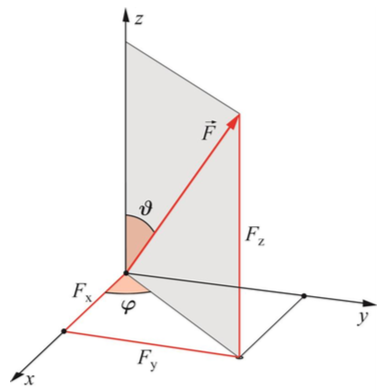
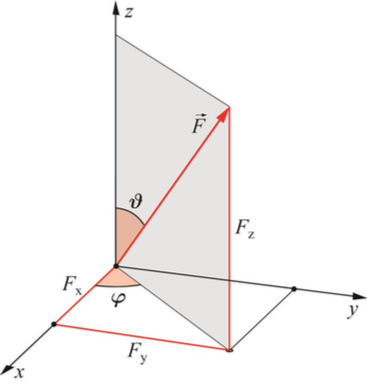
Add summary info until 'Bewegungen in 3 Dim.'

diff --git a/cheatsheet.tex b/cheatsheet.tex
@@ -41,6 +41,14 @@ zusammen: $G = {G}[G]$
 Dimensionen: Masse, Länge, Zeit, Temperatur, Stromstärke, Lichtstärke,
 Stoffmenge.
 
+\subsection{Mathematik}
+\subsubsection{Trigonometrie}
+	\begin{align*}
+		\sin(\alpha) &= \frac{\text{Gegenkathete}}{\text{Hypotenuse}} \\
+		\cos(\alpha) &= \frac{\text{Ankathete}}{\text{Hypotenuse}} \\
+		\tan(\alpha) &=  \frac{\text{Gegenkathete}}{\text{Ankathete}} = \frac{\sin(\alpha)}{\cos(\alpha)}
+	\end{align*}
+
 \section{Kinematik}
 	\begin{tabu} {l X}
 		\hline
@@ -65,20 +73,14 @@ Stoffmenge.
 		&	$\bar{a} = \frac{\Delta v}{\Delta t}$ 
 		\\ \hline
 	\end{tabu}
-	
-	\begin{figure}[h!]
-		\includegraphics[width=0.7\linewidth]{img/kinematik1}
-		\caption{}
-		\label{fig:kinematik1}
-	\end{figure}
 
-\subsection{v-t Diagramme}
-	
-	\begin{figure}[h!]
-		\includegraphics[width=0.4\linewidth]{img/v-t_diagram}
-		\caption{}
-		\label{fig:v-tdiagram}
-	\end{figure}
+	\begin{multicols}{2}
+		\subsection{x-t Diagramme}
+		\includegraphics[width=0.9\linewidth]{img/kinematik1}
+		
+		\subsection{v-t Diagramme}
+		\includegraphics[width=0.9\linewidth]{img/v-t_diagram}
+	\end{multicols}
 
 
 
@@ -115,28 +117,6 @@ Stoffmenge.
 		Impuls & $p = mv$ \\
 		Energie & $W = Fs = \frac{1}{2} mv^2$
 	\end{tabu}
-			
-	\begin{figure}[h]
-		\centering
-		\includegraphics[width=0.3\linewidth]{img/darstellungKraefte.png}
-		\caption{Darstellung von Kräften}
-		\label{fig:darstellungkraefte}
-	\end{figure}
-		\begin{tabu} {l X}
-			\multicolumn{2}{l}{2 Dimensional} \\
-			$F_x = $ & $Fcos(\alpha)$ \\
-			$F_y = $ & $Fsin(\alpha)$ \\
-			\multicolumn{2}{l}{3 Dimensional} \\
-			$F_x = $ & $Fcos(\varphi)sin(\vartheta)$ \\
-			$F_y = $ & $Fsin(\varphi)sin(\vartheta)$ \\
-			$F_z = $ & $Fcos(\vartheta)$
-		\end{tabu}
-			\begin{tabu} {l X}
-				\multicolumn{2}{l}{Berechnung trigonometrische Funktionen} \\
-				$sin(\alpha) = $ & $\frac{Gegenkathete}{Hypotenuse}$ \\
-				$cos(\alpha) = $ & $\frac{Ankathete}{Hypotenuse}$ \\
-				$tan(\alpha) = $ & $\frac{Gegenkathete}{Ankathete}$ = $\frac{sin(\alpha)}{cos(\alpha)}$
-			\end{tabu}
 
 \subsubsection{Potentielle Energie}
 	
@@ -157,6 +137,26 @@ Stoffmenge.
 		Kraft & $F = kx$ \\ %TODO: Was ist $x$?
 		Energie & $	W = \frac{1}{2} k x^2$
 	\end{tabu}
+
+
+\subsection{Mehrdimensionale Kräfte}
+\paragraph{2 Dimensionen} \hfill \\
+	\begin{tabu} {l X}
+		$F_x = $ & $F\cos(\alpha)$ \\
+		$F_y = $ & $F\sin(\alpha)$ \\
+	\end{tabu}
+\paragraph{3 Dimensionen} \hfill \\
+	\begin{multicols}{2}
+		\includegraphics[width=0.8\linewidth]{img/darstellungKraefte.png}
+		
+		\begin{tabu} {l X}
+			$\vec{r}(t) =$ & $ \left[ x(t),y(t),z(t)\right]$ \\
+			$\vec{v}(t) =$ & $\frac{\text{d}\vec{r}}{\text{d}t}$ \\
+			$F_x = $ & $F\cos(\varphi)\sin(\vartheta)$ \\
+			$F_y = $ & $F\sin(\varphi)\sin(\vartheta)$ \\
+			$F_z = $ & $F\cos(\vartheta)$
+		\end{tabu}
+	\end{multicols}
 
 \subsection{Würfe}
 \subsubsection{Senkrechter Wurf}
@@ -206,9 +206,19 @@ Stoffmenge.
 	Die Hebelkraft funktioniert dank dem Drehmoment.
 
 \subsection{Winkelgeschwindigkeit und Radialbeschleunigung}
-	Die Winkelgeschwindigkeit wird in $\omega = \frac{v}{r}\left[ \frac{rad}{s} \right]$ angegeben
+
+	\begin{tabu} {l X}
+		Periode & $T = \left[ \frac{\text{Umdrehungen}}{s}\right]$ \\ %TODO: Stimmt das?
+		Frequenz & $f = T^{-1}$ \\
+		Winkelgeschwindigkeit & $\vec{\omega} =\frac{v}{r} = \left[ \frac{rad}{s} \right] = 2\pi f$ \\
+		Drehgeschwindigkeit & $v = \omega r$ \\
+		Winkelbeschleunigung & $\alpha$ \\ %TODO: Definition?
+		Tangential- und & $\vec{a}(t) = \vec{a}_t(t) + \vec{a}_r(t)$ \\
+		Radialbeschleunigung & $a_r = \frac{v^2}{r} = \omega^2 r$
+	\end{tabu}
 	
-	Winkelbeschleunigung wird mit mit $\alpha$ angegeben.
+
+	Die Winkelgeschwindigkeit wird in $\omega = \frac{v}{r}\left[ \frac{rad}{s} \right]$ angegeben
 	
 	Die Radialbeschleunigung zeigt nach innen zum Kreismittelpunkt
 	
